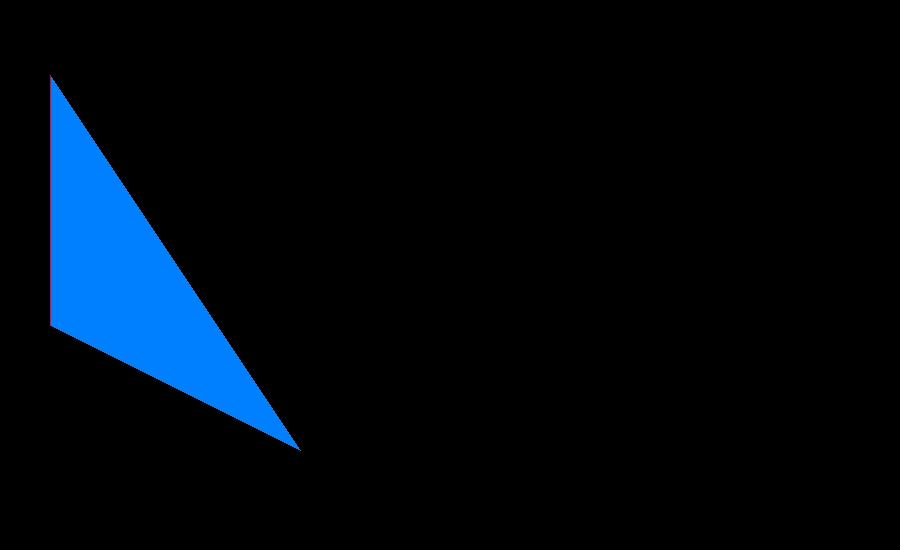
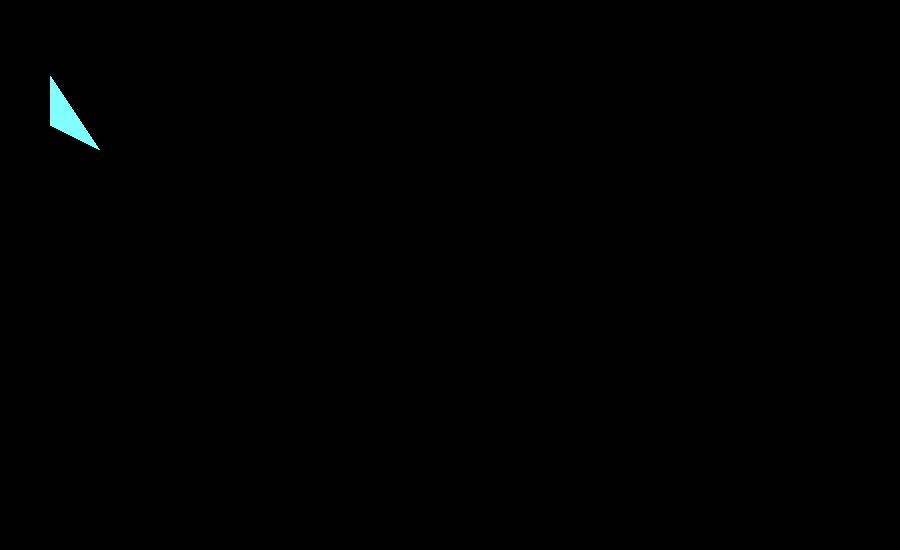
Cleanup more

Changed region(s): [[0.0311, 0.1545, 0.3422, 0.8345]]

diff --git a/renderer/triangle.go b/renderer/triangle.go
@@ -41,51 +41,19 @@ func (t *Triangle) Bake() {
 	}
 	startX, startY, endX, endY := boundingBox()
 
-	/*Determines if two points fall on the oppisate sides
-	 * of the triangles bounding box
-	 */
-	areOpposites := func(p1, p2 *tuple.Tuple3) bool {
-		return (p1.X == startX && p2.X == endX) ||
-			(p2.X == startX && p1.X == endX) ||
-			(p1.Y == startY && p2.Y == endY) ||
-			(p2.Y == startY && p1.X == endY)
-	}
-
-	//edge0 := [2]*tuple.Tuple3{t.p2d2, t.p2d1}
-	//edge1 := [2]*tuple.Tuple3{t.p2d3, t.p2d2}
-	//edge2 := [2]*tuple.Tuple3{t.p2d1, t.p2d3}
-
-	var edge0 [2]*tuple.Tuple3
-	var edge1 [2]*tuple.Tuple3
-	var edge2 [2]*tuple.Tuple3
-
-	if areOpposites(t.p2d2, t.p2d1) {
-		edge0 = [2]*tuple.Tuple3{t.p2d2, t.p2d1}
-		edge1 = [2]*tuple.Tuple3{t.p2d3, t.p2d2}
-		edge2 = [2]*tuple.Tuple3{t.p2d1, t.p2d3}
-	} else if areOpposites(t.p2d1, t.p2d3) {
-		edge0 = [2]*tuple.Tuple3{t.p2d1, t.p2d3}
-		edge1 = [2]*tuple.Tuple3{t.p2d3, t.p2d2}
-		edge2 = [2]*tuple.Tuple3{t.p2d2, t.p2d1}
-	} else {
-		edge0 = [2]*tuple.Tuple3{t.p2d3, t.p2d2}
-		edge1 = [2]*tuple.Tuple3{t.p2d2, t.p2d1}
-		edge2 = [2]*tuple.Tuple3{t.p2d1, t.p2d3}
-	}
-
 	for x := startX; x <= endX; x++ {
 		for y := startY; y <= endY; y++ {
-			determinate := ((edge0[1].X - edge0[0].X) * (y - edge0[0].Y)) - ((edge0[1].Y - edge0[0].Y) * (x - edge0[0].X))
+			determinate := ((t.p2d1.X - t.p2d2.X) * (y - t.p2d2.Y)) - ((t.p2d1.Y - t.p2d2.Y) * (x - t.p2d2.X))
 			if determinate < 0.0 {
 				continue
 			}
 
-			determinate = ((edge1[1].X - edge1[0].X) * (y - edge1[0].Y)) - ((edge1[1].Y - edge1[0].Y) * (x - edge1[0].X))
+			determinate = ((t.p2d2.X - t.p2d3.X) * (y - t.p2d3.Y)) - ((t.p2d2.Y - t.p2d3.Y) * (x - t.p2d3.X))
 			if determinate < 0.0 {
 				continue
 			}
 
-			determinate = ((edge2[1].X - edge2[0].X) * (y - edge2[0].Y)) - ((edge2[1].Y - edge2[0].Y) * (x - edge2[0].X))
+			determinate = ((t.p2d3.X - t.p2d1.X) * (y - t.p2d1.Y)) - ((t.p2d3.Y - t.p2d1.Y) * (x - t.p2d1.X))
 			if determinate > 0.0 {
 				t.pixels = append(t.pixels, tuple.NewPnt3(x, y, 0))
 			}
